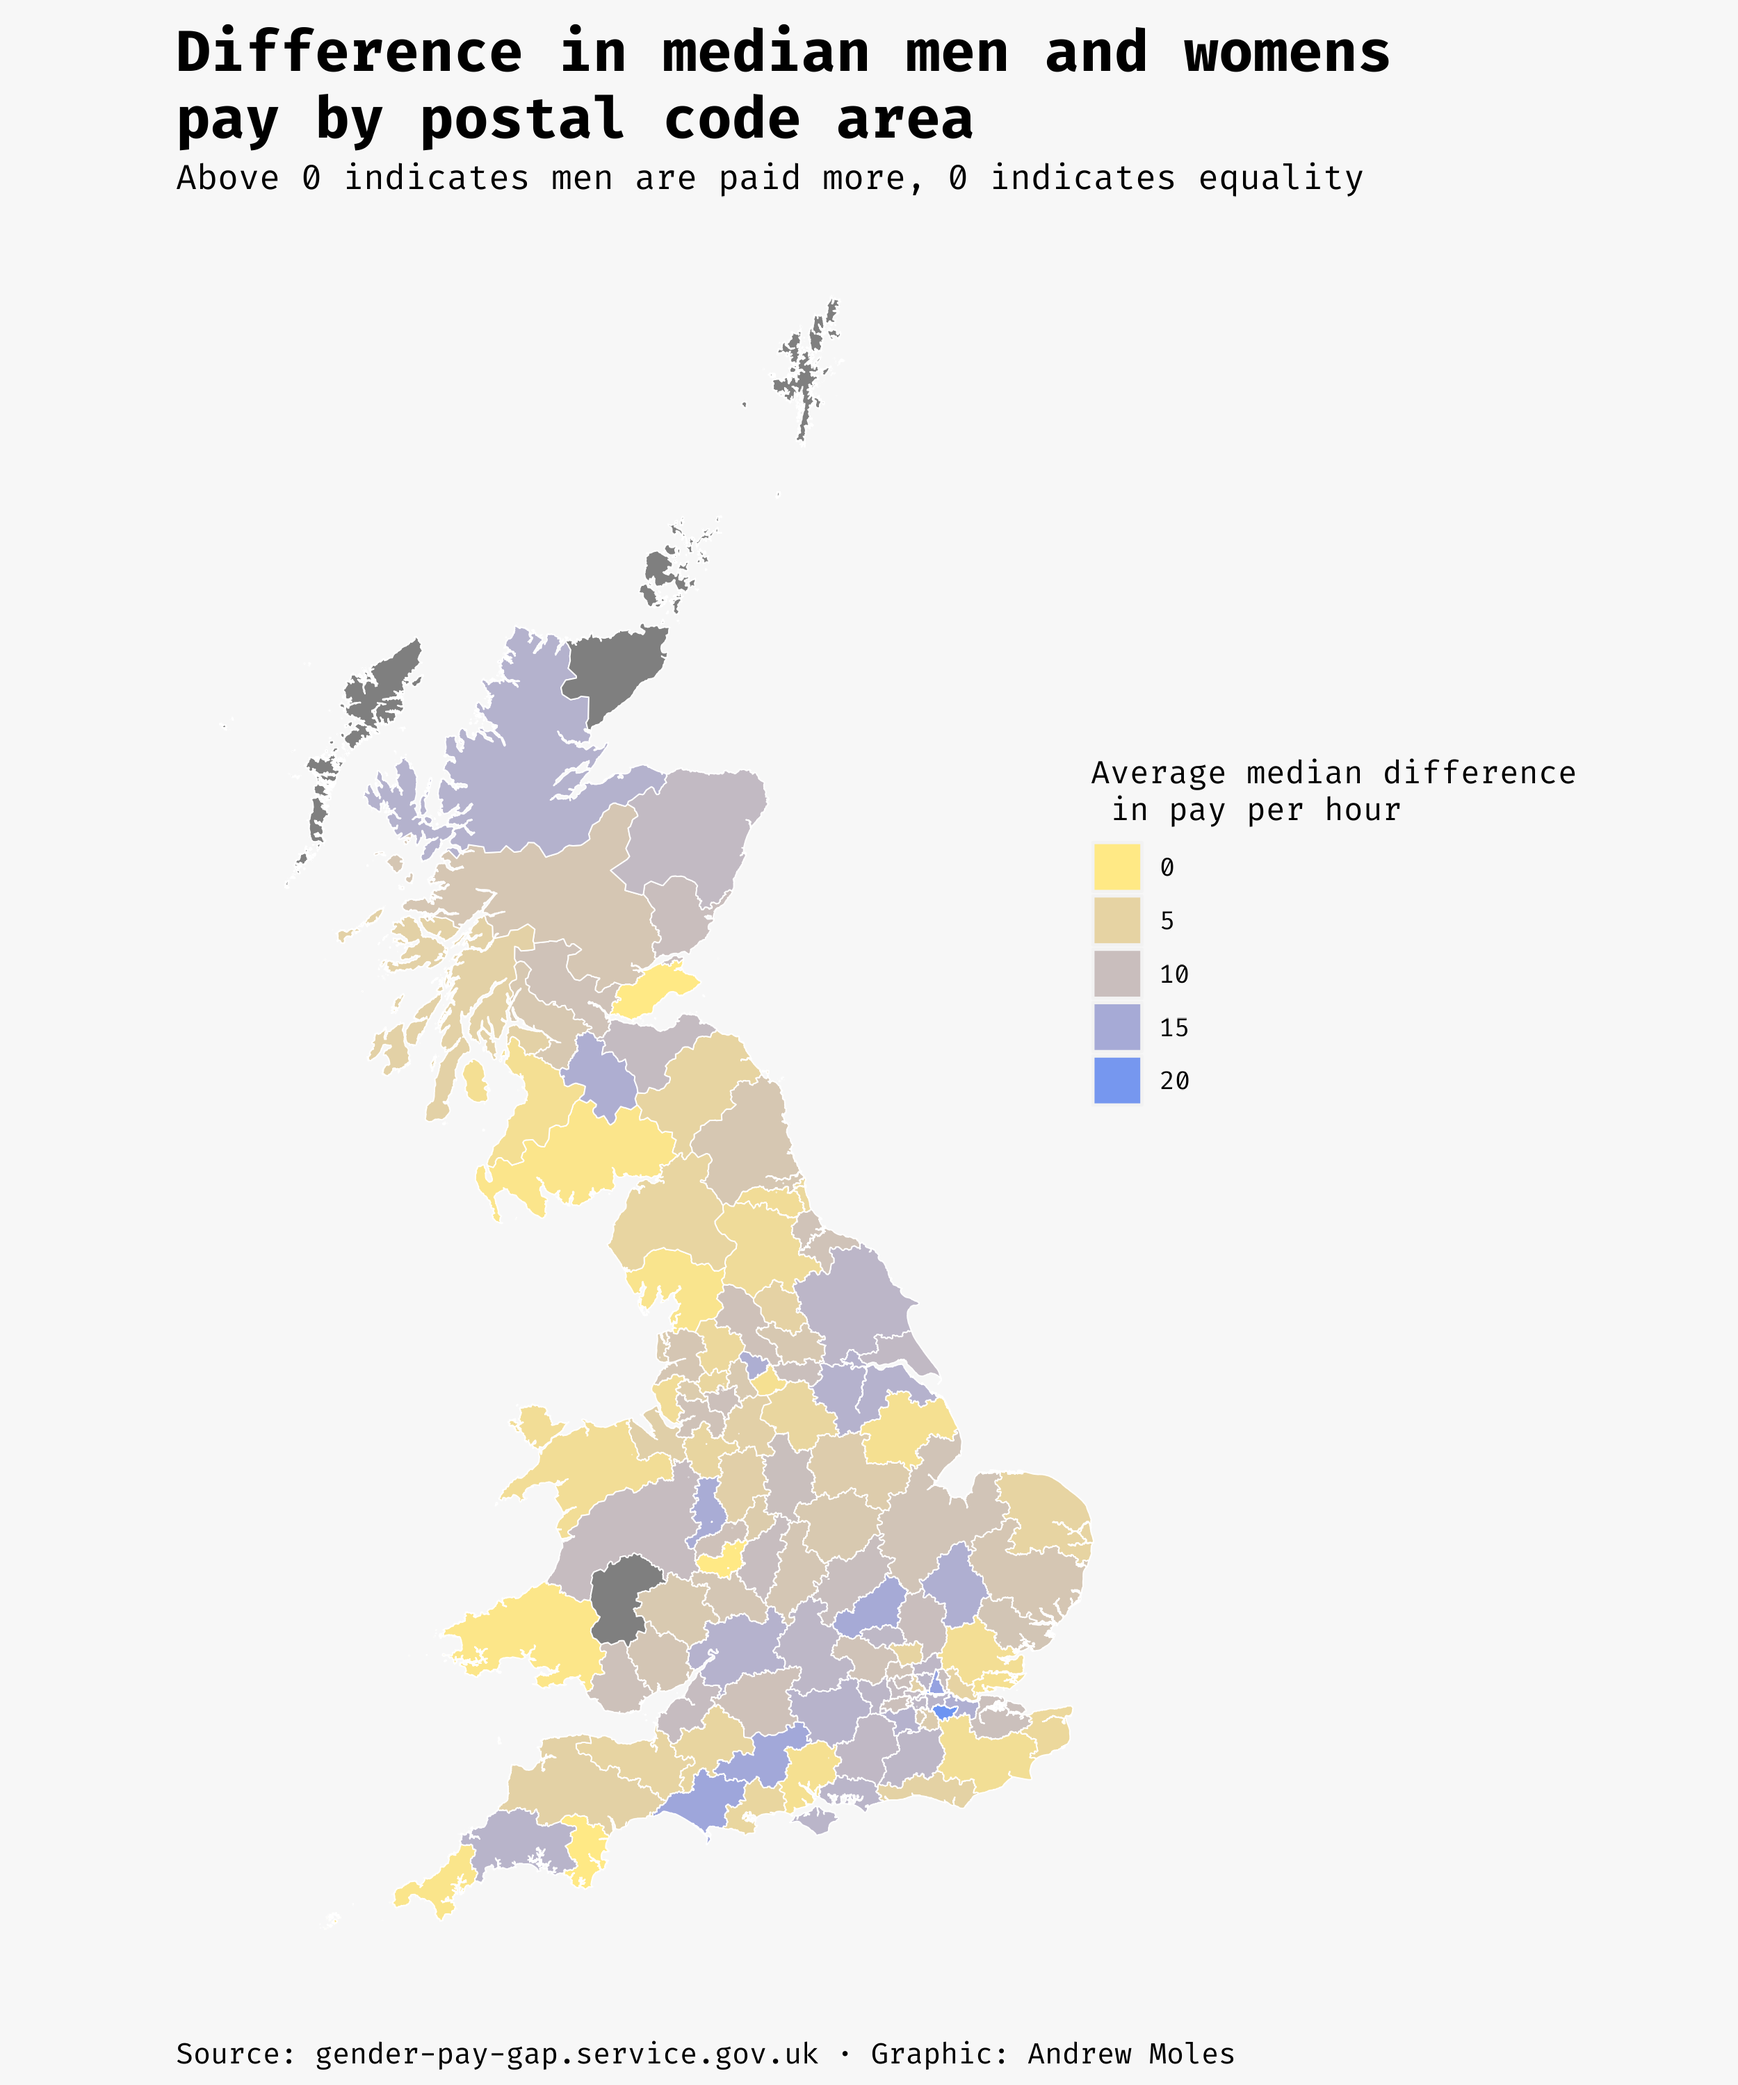
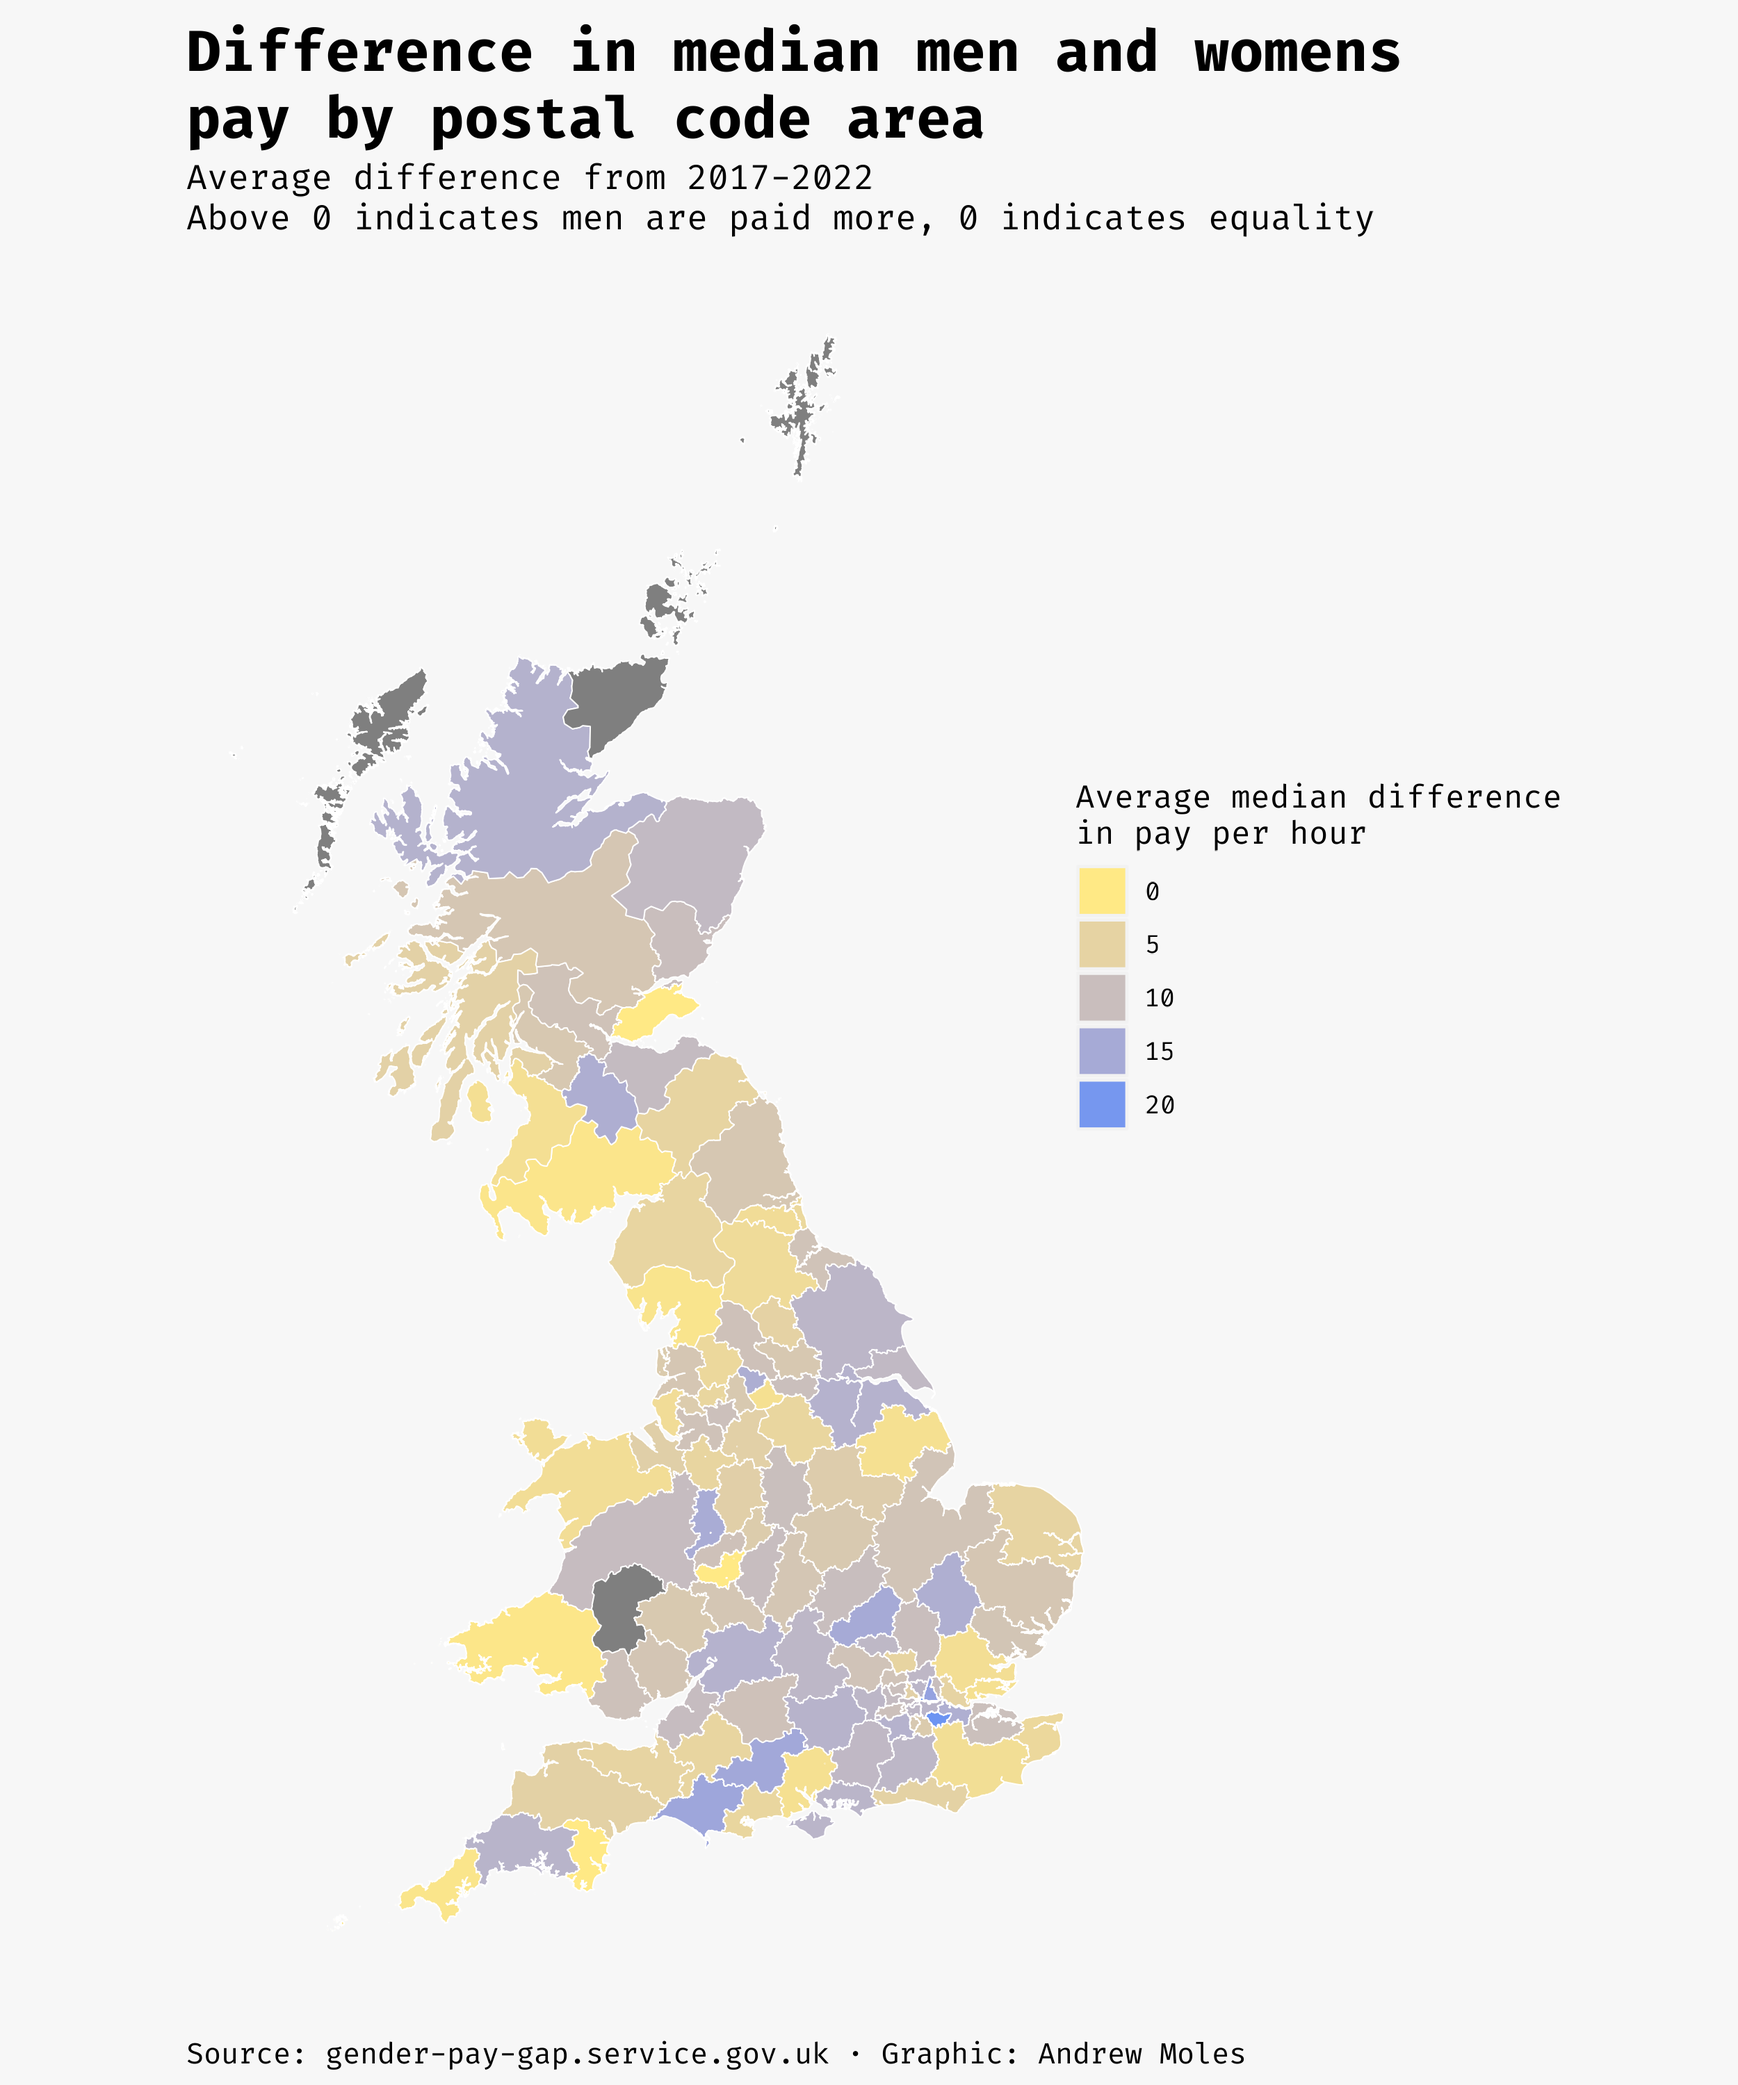
yearly paygap plots

diff --git a/README.md b/README.md
@@ -97,8 +97,14 @@ Made with gt and gtExtras.
 The first image is a selection of my workplaces and how they are doing in terms of gender pay equality. 
 ![](paygap-2022-06-28/workplaces.png)
 
-The second image is a regional map of how each area is doing in terms of gender pay equality
+The second image is a regional map of how each area is doing in terms of gender pay equality. This is an aggregate of all years
 ![](paygap-2022-06-28/median_pay_diff_postcode.png)
+
+The third image shows gender pay equality per year
+![](paygap-2022-06-28/median_pay_diff_postcode_year.png)
+
+Finally, we have a gif showing the change per year
+![](paygap-2022-06-28/paygap.gif)
 
 ## 2022-11-22 Museums
 Playing around with clustering and mapping. 
